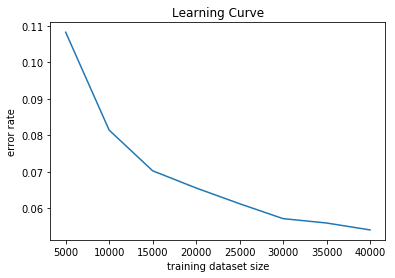
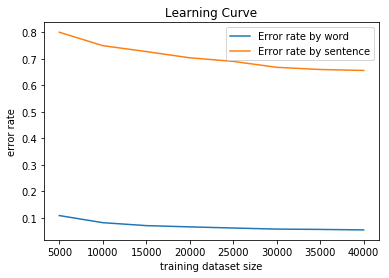
curve

diff --git a/learningcurve.py b/learningcurve.py
@@ -11,13 +11,22 @@ import matplotlib.pyplot as plt
 x = [5000,10000,15000,20000,
      25000,30000,35000,40000]
 # corresponding y axis values
+# error rate by word
 y = [0.108258344342797,0.0814367973676995,
      0.0702943889124311,0.0655831692300023,
      0.0612707829598425,0.0571827404840841,
      0.0559862402472767,0.0540917815389984]
+# error rate by sentence
+s = [0.8,0.749411764705882,
+	0.727058823529412,0.703529411764706,
+	0.69,0.667647058823529,
+	0.659411764705882,0.655882352941176]
 
 # plotting the points
-plt.plot(x,y)
+word = plt.plot(x,y,label='Error rate by word')
+plt.legend()
+sentence = plt.plot(x,s,label='Error rate by sentence')
+plt.legend()
 
 # naming the x axis
 plt.xlabel('training dataset size')
